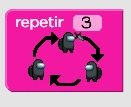
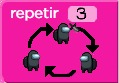
Agrego Drag And Drop para secuenciales, modifico la estructura de ContenedorPrincipal

diff --git a/src/main/java/com/vista/clasesParaVista/vistaBloques/VistaBloqueSecuencial.java b/src/main/java/com/vista/clasesParaVista/vistaBloques/VistaBloqueSecuencial.java
@@ -1,23 +1,37 @@
 package com.vista.clasesParaVista.vistaBloques;
 
-
+import com.vista.Vista;
 import com.vista.clasesParaVista.InterfacesDragAndDrop.Arrastrable;
 import com.vista.clasesParaVista.InterfacesDragAndDrop.Receptor;
 import javafx.event.EventHandler;
+import javafx.geometry.Insets;
+import javafx.scene.image.Image;
 import javafx.scene.image.ImageView;
 import javafx.scene.input.*;
+import javafx.scene.layout.*;
+import javafx.scene.paint.Color;
+import javafx.scene.shape.Rectangle;
 
-public class VistaBloqueIndividual extends VistaBloque implements Arrastrable, Receptor {
+public class VistaBloqueSecuencial extends VistaBloque implements Arrastrable, Receptor {
 
+    ImageView imagenBloqueSecuencial;
     VistaBloque siguiente = new VistaBloqueNulo();
     VistaBloque anterior = new VistaBloqueNulo();
-    ImageView image;
+    VistaBloque bloqueInicialListaInterna;
 
-    public VistaBloqueIndividual(ImageView image){
+    public VistaBloqueSecuencial (ImageView image){
         this.setMaxWidth(75);
         this.setMaxHeight(50);
         this.getChildren().add(image);
-        this.image = image;
+        imagenBloqueSecuencial = image;
+        ImageView bloqueInicioImagen = new ImageView(new Image("file:src/main/java/com/vista/imagenes/amongQuieto.jpg"));
+        bloqueInicialListaInterna = new VistaBloqueInicio(bloqueInicioImagen);
+        HBox cuerpoMedio = new HBox();
+        VBox cuerpoMedioIzquierdo = new VBox();
+        cuerpoMedioIzquierdo.setMinWidth(20);
+        cuerpoMedioIzquierdo.setBackground(new Background(new BackgroundFill(Color.DEEPPINK, CornerRadii.EMPTY, Insets.EMPTY)));
+        cuerpoMedio.getChildren().addAll(cuerpoMedioIzquierdo, bloqueInicialListaInterna);
+        this.getChildren().add(cuerpoMedio);
         this.setDragConfiguration();
         this.setDropConfiguration();
     }
@@ -30,28 +44,15 @@ public class VistaBloqueIndividual extends VistaBloque implements Arrastrable, R
         this.siguiente = siguienteNuevo;
     }
 
-    @Override
-    public void asignarSiguiente(VistaBloque siguienteNuevo) {
+    public void asignarSiguiente(VistaBloque siguienteNuevo){
+
         this.getChildren().remove(this.siguiente);
         this.getChildren().add(siguienteNuevo);
         this.siguiente = siguienteNuevo;
     }
 
-    @Override
-    protected void asignarAnterior(VistaBloque anteriorNuevo){
-        this.anterior = anteriorNuevo;
-    }
+    protected void asignarAnterior(VistaBloque anterior){this.anterior = anterior;}
 
-    public void separarDeLaCadena (){
-        this.anterior.asignarSiguiente(new VistaBloqueNulo());
-    }
-
-    @Override
-    public boolean esNulo(){
-        return false;
-    }
-
-    @Override
     public VistaBloque ultimoSiguiente(){
         if (siguiente.esNulo()){
             return this;
@@ -59,33 +60,40 @@ public class VistaBloqueIndividual extends VistaBloque implements Arrastrable, R
         return siguiente.ultimoSiguiente();
     }
 
-    @Override
+    public boolean esNulo(){
+        return false;
+    }
+
+    public void separarDeLaCadena (){
+        this.anterior.asignarSiguiente(new VistaBloqueNulo());
+    }
+
     public VistaBloque copia(){
-        return new VistaBloqueIndividual(new ImageView(this.image.getImage()));
+        return new VistaBloqueSecuencial(new ImageView(this.imagenBloqueSecuencial.getImage()));
     }
 
     public void setDragConfiguration(){
-
-        image.setOnDragDetected((MouseEvent event)->{
+        imagenBloqueSecuencial.setOnDragDetected((MouseEvent event)->{
             Dragboard db = this.startDragAndDrop(TransferMode.ANY);
             ClipboardContent content = new ClipboardContent();
             //content.putString("Source text (franz escribio esto)");
-            content.putImage(image.getImage());
+            content.putImage(imagenBloqueSecuencial.getImage());
             db.setContent(content);
             this.separarDeLaCadena();
 
             System.out.println("DragDetected on VistaBloqueIndividual");
         });
 
-        image.setOnMouseDragged((MouseEvent event)->{
+        imagenBloqueSecuencial.setOnMouseDragged((MouseEvent event)->{
             event.setDragDetect(true);
             System.out.println("MouseDragged on VistaBloqueIndividual");
         });
+
     }
 
     public void setDropConfiguration(){
 
-        image.setOnDragOver(new EventHandler<DragEvent>() {
+        imagenBloqueSecuencial.setOnDragOver(new EventHandler<DragEvent>() {
             @Override
             public void handle(DragEvent dragEvent) {
                 if (dragEvent.getGestureSource().getClass() == VistaBloqueIndividual.class){
@@ -94,14 +102,17 @@ public class VistaBloqueIndividual extends VistaBloque implements Arrastrable, R
                 else if (dragEvent.getGestureSource().getClass() == VistaBloqueDisponible.class){
                     dragEvent.acceptTransferModes(TransferMode.ANY);
                 }
+                else if (dragEvent.getGestureSource().getClass() == VistaBloqueSecuencial.class){
+                    dragEvent.acceptTransferModes(TransferMode.ANY);
+                }
                 dragEvent.consume();
             }
         });
 
 
-        image.setOnDragDropped((DragEvent event)->{
+        imagenBloqueSecuencial.setOnDragDropped((DragEvent event)->{
             System.out.println("DragDropped on VistaBloqueIndividual");
-            if (VistaBloqueIndividual.class == event.getGestureSource().getClass()) {
+            if (VistaBloqueIndividual.class == event.getGestureSource().getClass() || VistaBloqueSecuencial.class == event.getGestureSource().getClass()) {
                 VistaBloque bloque = (VistaBloque) event.getGestureSource();
                 this.insertarSiguiente(bloque);
                 event.setDropCompleted(true);

diff --git a/src/main/java/com/vista/clasesParaVista/vistaSeccionBloques/VistaSeccionBloques.java b/src/main/java/com/vista/clasesParaVista/vistaSeccionBloques/VistaSeccionBloques.java
@@ -3,6 +3,7 @@ package com.vista.clasesParaVista.vistaSeccionBloques;
 import com.vista.clasesParaVista.vistaBloques.VistaBloqueDisponible;
 import com.vista.clasesParaVista.vistaBloques.VistaBloque;
 import com.vista.clasesParaVista.vistaBloques.VistaBloqueIndividual;
+import com.vista.clasesParaVista.vistaBloques.VistaBloqueSecuencial;
 import javafx.scene.image.Image;
 import javafx.scene.image.ImageView;
 import javafx.scene.layout.VBox;
@@ -29,6 +30,7 @@ public class VistaSeccionBloques extends VBox{
         ImageView imagenMoverAbajo = new ImageView(new Image("file:src/main/java/com/vista/imagenes/bloqueImagenes/bloqueMoverAbajo.jpeg"));
         ImageView imagenBajarLapiz = new ImageView(new Image("file:src/main/java/com/vista/imagenes/bloqueImagenes/bloqueBajarLapiz.jpeg"));
         ImageView imagenLevantarLapiz = new ImageView(new Image("file:src/main/java/com/vista/imagenes/bloqueImagenes/bloqueLevantarLapiz.jpeg"));
+        ImageView imagenRepetir2 = new ImageView(new Image("file:src/main/java/com/vista/imagenes/bloqueImagenes/bloqueRepetir2.jpeg"));
 
         //creo los bloques para seccion algoritmo
         VistaBloque bloqueMoverDerecha = new VistaBloqueIndividual(imagenBloqueMoverDerecha);
@@ -37,6 +39,7 @@ public class VistaSeccionBloques extends VBox{
         VistaBloque bloqueMoverAbajo = new VistaBloqueIndividual(imagenMoverAbajo);
         VistaBloque bloqueLevantarLapiz = new VistaBloqueIndividual(imagenLevantarLapiz);
         VistaBloque bloqueBajarLapiz = new VistaBloqueIndividual(imagenBajarLapiz);
+        VistaBloque bloqueRepetir2 = new VistaBloqueSecuencial(imagenRepetir2);
 
         //creo contenedores para los bloques de seccion bloque
         VBox contenedorBloqueMoverDerecha = new VBox();
@@ -45,6 +48,7 @@ public class VistaSeccionBloques extends VBox{
         VBox contenedorBloqueMoverAbajo = new VBox();
         VBox contenedorBloqueLevantarLapiz = new VBox();
         VBox contenedorBloqueBajarLapiz = new VBox();
+        VBox contenedorBloqueRepetir2 = new VBox();
 
         //creo los bloques de seccion bloque y los agrego a sus respectivos contenedores
         contenedorBloqueMoverDerecha.getChildren().add(new VistaBloqueDisponible(imagenBloqueMoverDerecha, bloqueMoverDerecha, contenedorBloqueMoverDerecha));
@@ -53,6 +57,7 @@ public class VistaSeccionBloques extends VBox{
         contenedorBloqueMoverAbajo.getChildren().add(new VistaBloqueDisponible(imagenMoverAbajo, bloqueMoverAbajo, contenedorBloqueMoverAbajo));
         contenedorBloqueLevantarLapiz.getChildren().add(new VistaBloqueDisponible(imagenLevantarLapiz, bloqueLevantarLapiz, contenedorBloqueLevantarLapiz));
         contenedorBloqueBajarLapiz.getChildren().add(new VistaBloqueDisponible(imagenBajarLapiz, bloqueBajarLapiz, contenedorBloqueBajarLapiz));
+        contenedorBloqueRepetir2.getChildren().add(new VistaBloqueDisponible(imagenRepetir2, bloqueRepetir2, contenedorBloqueRepetir2));
 
         //agrego de manera ordenada los contenedores de bloques de seccion bloque
         this.getChildren().add(contenedorBloqueMoverDerecha);
@@ -61,6 +66,7 @@ public class VistaSeccionBloques extends VBox{
         this.getChildren().add(contenedorBloqueMoverAbajo);
         this.getChildren().add(contenedorBloqueLevantarLapiz);
         this.getChildren().add(contenedorBloqueBajarLapiz);
+        this.getChildren().add(contenedorBloqueRepetir2);
     }
 
 

diff --git a/src/main/java/com/vista/clasesParaVista/vistaBloques/VistaBloqueInicio.java b/src/main/java/com/vista/clasesParaVista/vistaBloques/VistaBloqueInicio.java
@@ -12,8 +12,8 @@ public class VistaBloqueInicio extends VistaBloque implements Receptor {
     VistaBloque siguiente = new VistaBloqueNulo();
     ImageView bloqueInicioImagen;
 
-    public VistaBloqueInicio (){
-        bloqueInicioImagen = new ImageView(new Image("file:src/main/java/com/vista/imagenes/amongQuieto.jpg"));
+    public VistaBloqueInicio (ImageView image){
+        bloqueInicioImagen = image;
         bloqueInicioImagen.setFitHeight(50);
         bloqueInicioImagen.setFitWidth(75);
 
@@ -47,7 +47,7 @@ public class VistaBloqueInicio extends VistaBloque implements Receptor {
 
     @Override
     public VistaBloque copia(){
-        return new VistaBloqueInicio();
+        return new VistaBloqueInicio(bloqueInicioImagen);
     }
 
     public void setDropConfiguration(){

diff --git a/src/main/java/com/vista/imagenes/ContenedorPrincipal.java b/src/main/java/com/vista/imagenes/ContenedorPrincipal.java
@@ -70,7 +70,7 @@ public class ContenedorPrincipal extends BorderPane {
         bloquesAEjecutar.setPrefSize(200, 350);
 
         //Agregando bloque Inicial a Bloques a Ejecutar
-        bloquesAEjecutar.getChildren().add(new VistaBloqueInicio());
+        bloquesAEjecutar.getChildren().add(new VistaBloqueInicio(new ImageView(new Image("file:src/main/java/com/vista/imagenes/amongQuieto.jpg"))));
 
 
 
